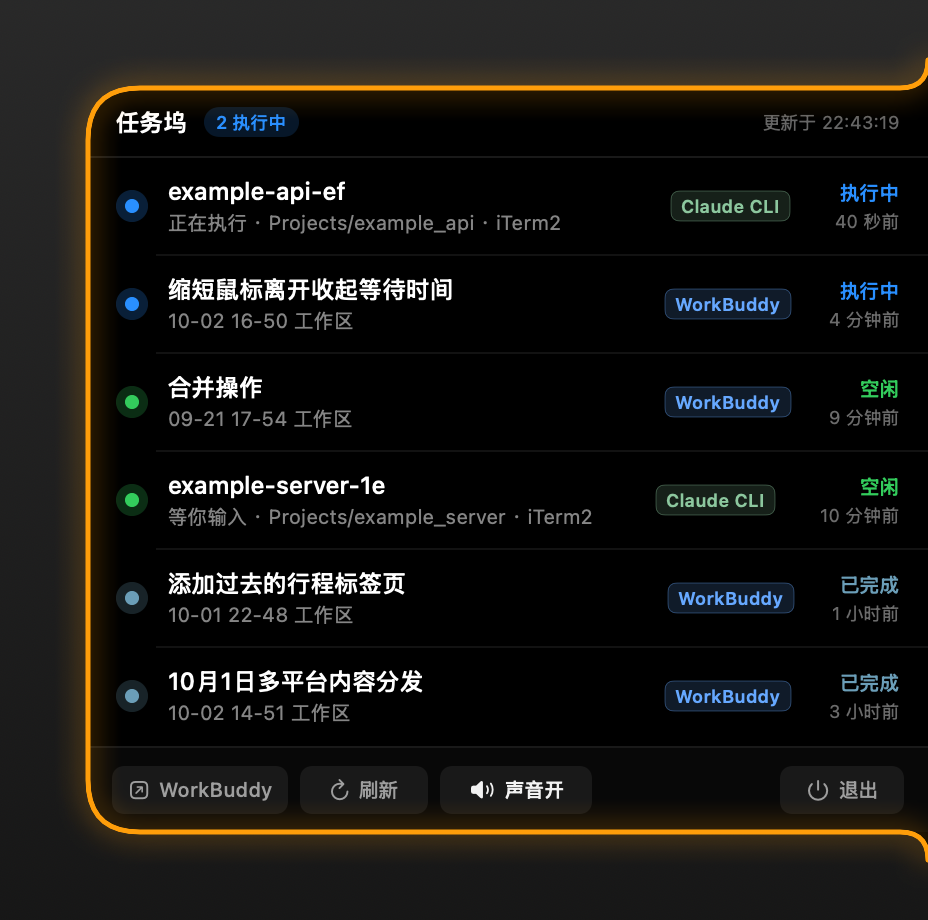
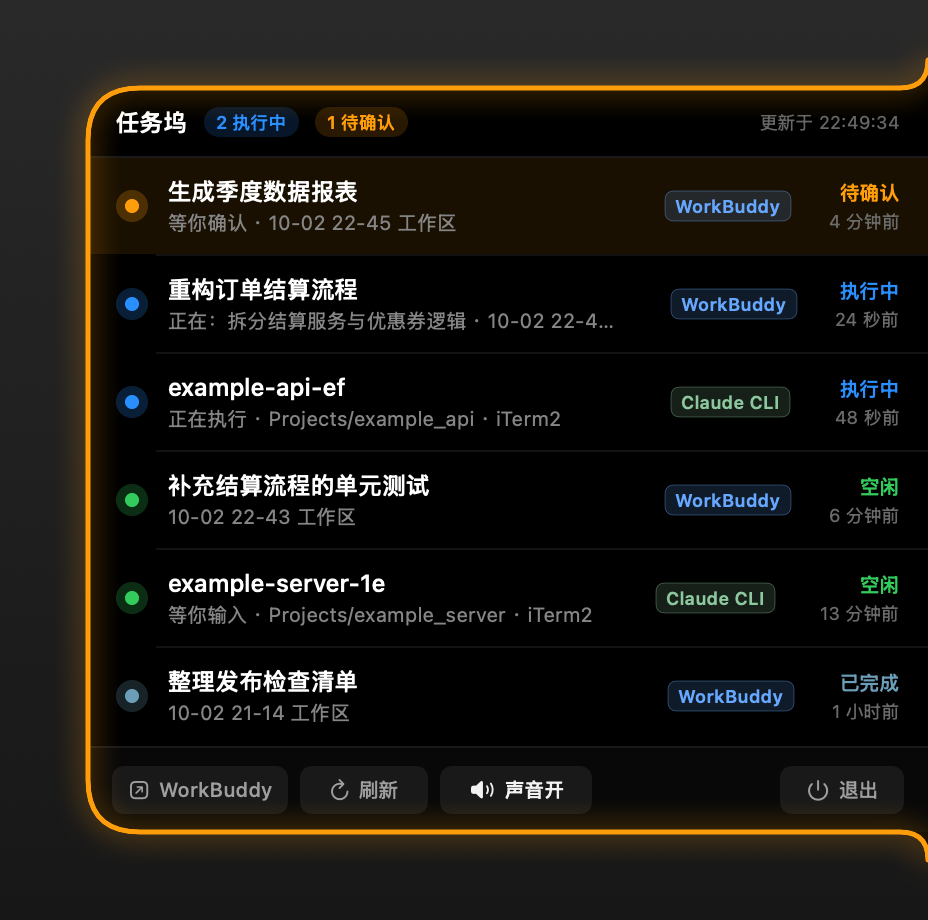
feat(preview): 预览改用合成数据，docs 截图变成可复现产物
docs/ 会被 README 引用、随仓库公开，之前却渲染的是本机真实数据——
截图里带着真实的任务标题（「合并操作」「添加过去的行程标签页」…）
和真实工程路径。现在整条链路改成合成数据：

- TaskStore 增加 demoData：完全不打开数据库、不扫 ~/.claude，
  只产出 demoItems() 里那批假任务，覆盖全部五种展示状态
- 假任务的时间戳由「距今多少分钟」反推，所以工作区目录名
  （「10-02 22:41 工作区」）和右上角相对时间永远自洽
- --preview / --animframes 支持 --demo；示例行路径用 ~/Projects/… 这类中性值
- 新增 scripts/make-screenshots.sh 一键重出 docs/ 下全部图，
  tools/make-strip.swift 负责多图拼接（2 倍像素渲染，Retina 清晰度）
- 删掉 docs/live/（真实窗口抓帧含真实数据），并加进 .gitignore；
  该能力本身保留（NOTCHTASKS_ANIMPROBE），只是产物不再入库

diff --git a/Sources/TaskStore.swift b/Sources/TaskStore.swift
@@ -17,8 +17,10 @@ final class TaskStore: ObservableObject {
 
     // 设置
     @Published var maxRows: Int = 6
-    /// 预览用：塞两条假的 CLI 行，方便看版式（实时运行永远为 false）
-    var demoClaude: Bool = false
+    /// 合成数据模式：完全不读本机数据，只产出 `demoItems()` 里那批假任务。
+    /// 文档截图（docs/）就是它渲染的——仓库公开，所以标题与路径都必须是假的。
+    /// 实时运行永远是 false。
+    var demoData = false
     @Published var interval: TimeInterval = 2.0
     @Published var showFinished: Bool = true
 
@@ -110,17 +112,26 @@ final class TaskStore: ObservableObject {
         refreshInFlight = true
         defer { refreshInFlight = false }
 
-        guard let handle = db.open() else {
-            isLive = false
-            statusText = db.lastError ?? "读取失败"
-            return
-        }
-        defer { sqlite3_close(handle) }
+        var items: [TaskItem]
 
-        let todos = fetchActiveTodos(handle)
-        var items = fetchSessions(handle, todos: todos)
-        items.append(contentsOf: fetchAutomationRuns(handle))
-        items.append(contentsOf: fetchClaudeSessions())
+        if demoData {
+            // 预览 / 截图：不打开数据库，也不扫 ~/.claude
+            items = Self.demoItems()
+            isLive = true
+            lastRefresh = Date()
+        } else {
+            guard let handle = db.open() else {
+                isLive = false
+                statusText = db.lastError ?? "读取失败"
+                return
+            }
+            defer { sqlite3_close(handle) }
+
+            let todos = fetchActiveTodos(handle)
+            items = fetchSessions(handle, todos: todos)
+            items.append(contentsOf: fetchAutomationRuns(handle))
+            items.append(contentsOf: fetchClaudeSessions())
+        }
 
         let historyCutoff = Date().addingTimeInterval(-historyWindow)
         items.removeAll { !$0.state.isActive && $0.updatedAt < historyCutoff }
@@ -291,7 +302,6 @@ final class TaskStore: ObservableObject {
     // MARK: - 查询：终端里的 Claude Code CLI
 
     private func fetchClaudeSessions() -> [TaskItem] {
-        if demoClaude { return Self.demoClaudeItems() }
         return ClaudeStore.liveSessions().map { s in
             // Claude Code 的 status 已知取值：busy / idle / waiting，
             // 和 WorkBuddy 那边的映射对齐（同一个词 = 同一件事）：
@@ -341,19 +351,72 @@ final class TaskStore: ObservableObject {
         }
     }
 
-    private static func demoClaudeItems() -> [TaskItem] {
-        let now = Date()
-        // 路径要中性：这些示例行会被渲染进 docs/ 的预览图，仓库是公开的
+    // MARK: - 合成数据（预览 / 文档截图）
+
+    /// 一批覆盖全部展示状态的假任务，`demoData = true` 时用它替掉真实数据源。
+    ///
+    /// 两条硬约束：
+    /// 1. **不读本机任何东西**——它会渲染进 docs/ 的图，仓库是公开的
+    /// 2. 时间戳由「距今多少分钟」反推，所以工作区目录名（`10-02 21:40 工作区`）
+    ///    和右上角的相对时间永远自洽，不会出现「3 分钟前 / 昨天的工作区」
+    private static func demoItems() -> [TaskItem] {
         let home = NSHomeDirectory()
+
+        func minutesAgo(_ m: Double) -> Date {
+            Date().addingTimeInterval(-m * 60)
+        }
+        /// 造一个和 WorkBuddy 真实形态一致的时间戳工作区路径
+        func workspace(_ m: Double) -> String {
+            let f = DateFormatter()
+            f.dateFormat = "yyyy-MM-dd-HH-mm-ss"
+            return home + "/WorkBuddy/" + f.string(from: minutesAgo(m))
+        }
+
         return [
-            TaskItem(id: "demo-1", kind: .claude, title: "example-api-ef",
+            TaskItem(id: "demo-s1", kind: .session,
+                     title: "重构订单结算流程",
+                     detail: "正在：拆分结算服务与优惠券逻辑",
+                     cwd: workspace(0.4),
+                     state: .running, updatedAt: minutesAgo(0.4)),
+
+            TaskItem(id: "demo-s2", kind: .session,
+                     title: "生成季度数据报表",
+                     detail: "等你确认",
+                     cwd: workspace(4),
+                     state: .needConfirm, updatedAt: minutesAgo(4),
+                     needsConfirm: true),
+
+            TaskItem(id: "demo-c1", kind: .claude,
+                     title: "example-api-ef",
                      detail: "正在执行",
                      cwd: home + "/Projects/example_api",
-                     state: .running, updatedAt: now.addingTimeInterval(-40)),
-            TaskItem(id: "demo-2", kind: .claude, title: "example-server-1e",
+                     state: .running, updatedAt: minutesAgo(0.8)),
+
+            // 刚结束 6 分钟 → 展示成「空闲」（明亮绿）
+            TaskItem(id: "demo-s3", kind: .session,
+                     title: "补充结算流程的单元测试",
+                     detail: nil,
+                     cwd: workspace(6),
+                     state: .done, updatedAt: minutesAgo(6)),
+
+            TaskItem(id: "demo-c2", kind: .claude,
+                     title: "example-server-1e",
                      detail: "等你输入",
                      cwd: home + "/Projects/example_server",
-                     state: .idle, updatedAt: now.addingTimeInterval(-600)),
+                     state: .idle, updatedAt: minutesAgo(13)),
+
+            // 结束 1.5 小时 → 沉成「已完成」（灰蓝）
+            TaskItem(id: "demo-s4", kind: .session,
+                     title: "整理发布检查清单",
+                     detail: nil,
+                     cwd: workspace(95),
+                     state: .done, updatedAt: minutesAgo(95)),
+
+            TaskItem(id: "demo-a1", kind: .automation,
+                     title: "每日构建巡检",
+                     detail: "检查 main 分支的构建与冒烟测试",
+                     cwd: workspace(200),
+                     state: .done, updatedAt: minutesAgo(200)),
         ]
     }
 

diff --git a/tools/make-strip.swift b/tools/make-strip.swift
@@ -1,0 +1,93 @@
+#!/usr/bin/env swift
+//
+// 把若干张图横向拼成一张对比图，带标题。
+//
+//   swift tools/make-strip.swift <输出.png> <缩放> <标题>=<图片路径> [<标题>=<图片路径> ...]
+//
+// 例：
+//   swift tools/make-strip.swift docs/把手三种形态.png 1.0 \
+//     常态=/tmp/a.png 待确认=/tmp/b.png 刚完成=/tmp/c.png
+//
+// 只依赖 AppKit，不需要 GUI。用于生成 docs/ 里的对比图。
+//
+import AppKit
+import Foundation
+
+let args = Array(CommandLine.arguments.dropFirst())
+guard args.count >= 3 else {
+    FileHandle.standardError.write("""
+    用法：make-strip.swift <输出.png> <缩放> <标题>=<图片路径> ...
+
+    """.data(using: .utf8)!)
+    exit(2)
+}
+
+let outPath = args[0]
+let scale = CGFloat(Double(args[1]) ?? 1.0)
+let items: [(label: String, image: NSImage)] = args.dropFirst(2).compactMap { spec in
+    guard let eq = spec.firstIndex(of: "=") else { return nil }
+    let label = String(spec[spec.startIndex..<eq])
+    let path = String(spec[spec.index(after: eq)...])
+    guard let img = NSImage(contentsOfFile: path) else {
+        print("⚠  读不到 \(path)")
+        return nil
+    }
+    return (label, img)
+}
+guard !items.isEmpty else {
+    FileHandle.standardError.write("没有任何可用的输入图\n".data(using: .utf8)!)
+    exit(1)
+}
+
+let gap: CGFloat = 16
+let pad: CGFloat = 28
+let captionH: CGFloat = 34
+
+let sizes = items.map { CGSize(width: $0.image.size.width * scale,
+                              height: $0.image.size.height * scale) }
+let W = pad * 2 + sizes.reduce(0) { $0 + $1.width } + gap * CGFloat(items.count - 1)
+let H = pad * 2 + captionH + (sizes.map(\.height).max() ?? 0)
+
+// 画布按 2 倍像素渲染，输出才是 Retina 清晰度（W/H 仍是点）
+let density: CGFloat = 2
+guard let rep = NSBitmapImageRep(bitmapDataPlanes: nil,
+                                 pixelsWide: Int((W * density).rounded()),
+                                 pixelsHigh: Int((H * density).rounded()),
+                                 bitsPerSample: 8, samplesPerPixel: 4,
+                                 hasAlpha: true, isPlanar: false,
+                                 colorSpaceName: .deviceRGB,
+                                 bytesPerRow: 0, bitsPerPixel: 0) else {
+    FileHandle.standardError.write("画布创建失败\n".data(using: .utf8)!)
+    exit(1)
+}
+rep.size = NSSize(width: W, height: H)
+
+NSGraphicsContext.saveGraphicsState()
+NSGraphicsContext.current = NSGraphicsContext(bitmapImageRep: rep)
+
+// 深色底，和 App 的观感一致
+NSColor(deviceWhite: 0.12, alpha: 1).setFill()
+NSRect(x: 0, y: 0, width: W, height: H).fill()
+
+let attrs: [NSAttributedString.Key: Any] = [
+    .font: NSFont.systemFont(ofSize: 13, weight: .medium),
+    .foregroundColor: NSColor(deviceWhite: 0.82, alpha: 1),
+]
+
+var x = pad
+for (i, item) in items.enumerated() {
+    let s = sizes[i]
+    // 顶对齐：各图高度不同时，顶部（形状的锚点边）要在同一条线上
+    item.image.draw(in: NSRect(x: x, y: pad, width: s.width, height: s.height))
+    item.label.draw(at: NSPoint(x: x + 2, y: H - pad - 20), withAttributes: attrs)
+    x += s.width + gap
+}
+
+NSGraphicsContext.restoreGraphicsState()
+
+guard let png = rep.representation(using: .png, properties: [:]) else {
+    FileHandle.standardError.write("PNG 编码失败\n".data(using: .utf8)!)
+    exit(1)
+}
+try? png.write(to: URL(fileURLWithPath: outPath))
+print("已生成 \(outPath)  (\(Int(W))×\(Int(H))pt @\(Int(density))x)")

diff --git a/Sources/main.swift b/Sources/main.swift
@@ -3,21 +3,30 @@ import SwiftUI
 
 let _ = NSApplication.shared
 
-// 离屏渲染预览：NotchTasks --preview <输出目录>
-if let idx = CommandLine.arguments.firstIndex(of: "--preview") {
-    let out = CommandLine.arguments.count > idx + 1
-        ? CommandLine.arguments[idx + 1]
-        : "/tmp/notchtasks-preview"
-    MainActor.assumeIsolated { PreviewRunner.run(outDir: out) }
+let cliArgs = CommandLine.arguments
+
+/// 取 `--flag` 后面紧跟的值（下一个以 -- 开头就当作没给）
+func argValue(after flag: String) -> String? {
+    guard let i = cliArgs.firstIndex(of: flag), i + 1 < cliArgs.count else { return nil }
+    let v = cliArgs[i + 1]
+    return v.hasPrefix("--") ? nil : v
+}
+
+/// `--demo`：渲染时用合成任务替掉真实数据源。docs/ 的截图走这条，
+/// 保证公开仓库里的图不含本机任务标题与路径。
+let demoRendering = cliArgs.contains("--demo")
+
+// 离屏渲染预览：NotchTasks --preview <输出目录> [--demo]
+if cliArgs.contains("--preview") {
+    let out = argValue(after: "--preview") ?? "/tmp/notchtasks-preview"
+    MainActor.assumeIsolated { PreviewRunner.run(outDir: out, demo: demoRendering) }
     exit(0)
 }
 
-// 逐帧渲染生长动画：NotchTasks --animframes <输出目录>
-if let idx = CommandLine.arguments.firstIndex(of: "--animframes") {
-    let out = CommandLine.arguments.count > idx + 1
-        ? CommandLine.arguments[idx + 1]
-        : "/tmp/notchtasks-anim"
-    MainActor.assumeIsolated { PreviewRunner.animFrames(outDir: out) }
+// 逐帧渲染生长动画：NotchTasks --animframes <输出目录> [--demo]
+if cliArgs.contains("--animframes") {
+    let out = argValue(after: "--animframes") ?? "/tmp/notchtasks-anim"
+    MainActor.assumeIsolated { PreviewRunner.animFrames(outDir: out, demo: demoRendering) }
     exit(0)
 }
 

diff --git a/Sources/Preview.swift b/Sources/Preview.swift
@@ -2,11 +2,14 @@ import SwiftUI
 import AppKit
 
 /// 离屏渲染自检：不需要屏幕录制权限，直接把界面渲染成 PNG。
-/// 用法：NotchTasks --preview /tmp/notchtasks-preview
+///
+/// 用法：
+///   NotchTasks --preview <输出目录>            用本机真实数据
+///   NotchTasks --preview <输出目录> --demo     用合成数据（docs/ 的截图走这条）
 enum PreviewRunner {
 
     @MainActor
-    static func run(outDir: String) {
+    static func run(outDir: String, demo: Bool = false) {
         let fm = FileManager.default
         try? fm.createDirectory(atPath: outDir, withIntermediateDirectories: true)
 
@@ -15,7 +18,7 @@ enum PreviewRunner {
         // ---- 正常状态（有任务在跑） ----
         let store = TaskStore()
         store.maxRows = 6
-        store.demoClaude = true          // 预览里固定塞两条 CLI 行，便于看版式
+        store.demoData = demo             // demo = 只渲染合成任务，不读本机任何东西
         store.refresh()
 
         let ui = UIState()
@@ -78,13 +81,14 @@ enum PreviewRunner {
     /// 逐帧渲染生长动画：progress 是显式插值的，所以可以离屏精确复现中间帧，
     /// 用来验证形状确实是从把手那一点长出来的（右上角坐标全程不变）
     @MainActor
-    static func animFrames(outDir: String) {
+    static func animFrames(outDir: String, demo: Bool = false) {
         let fm = FileManager.default
         try? fm.createDirectory(atPath: outDir, withIntermediateDirectories: true)
 
         let prefs = Preferences()
         let store = TaskStore()
         store.maxRows = 6
+        store.demoData = demo
         store.refresh()
 
         let ui = UIState()
